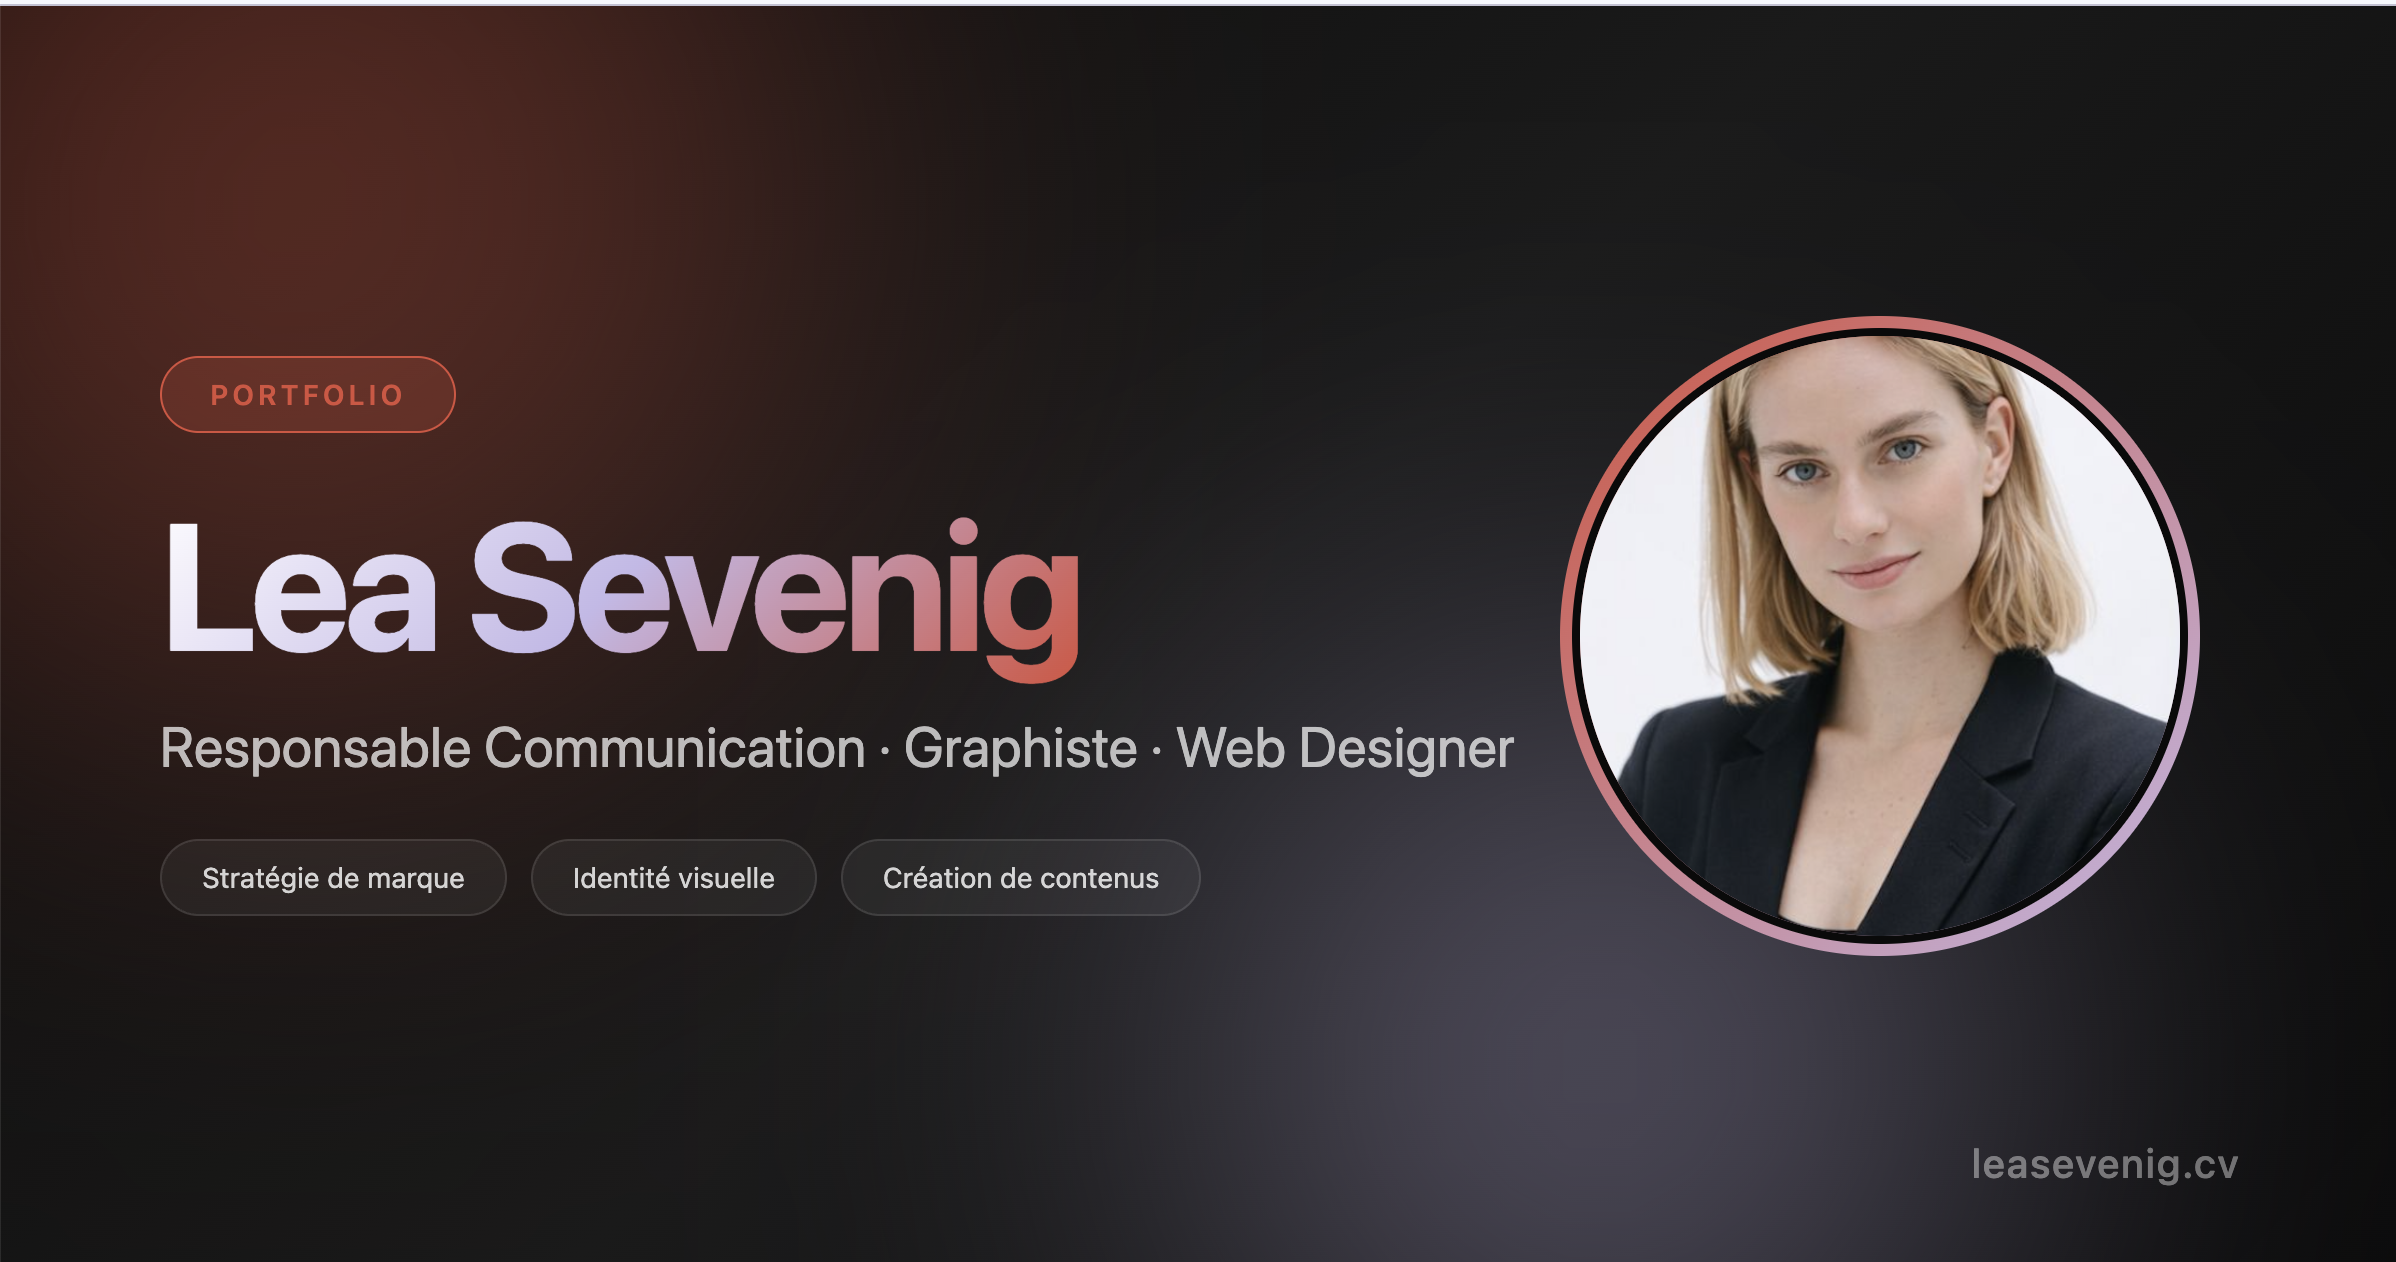
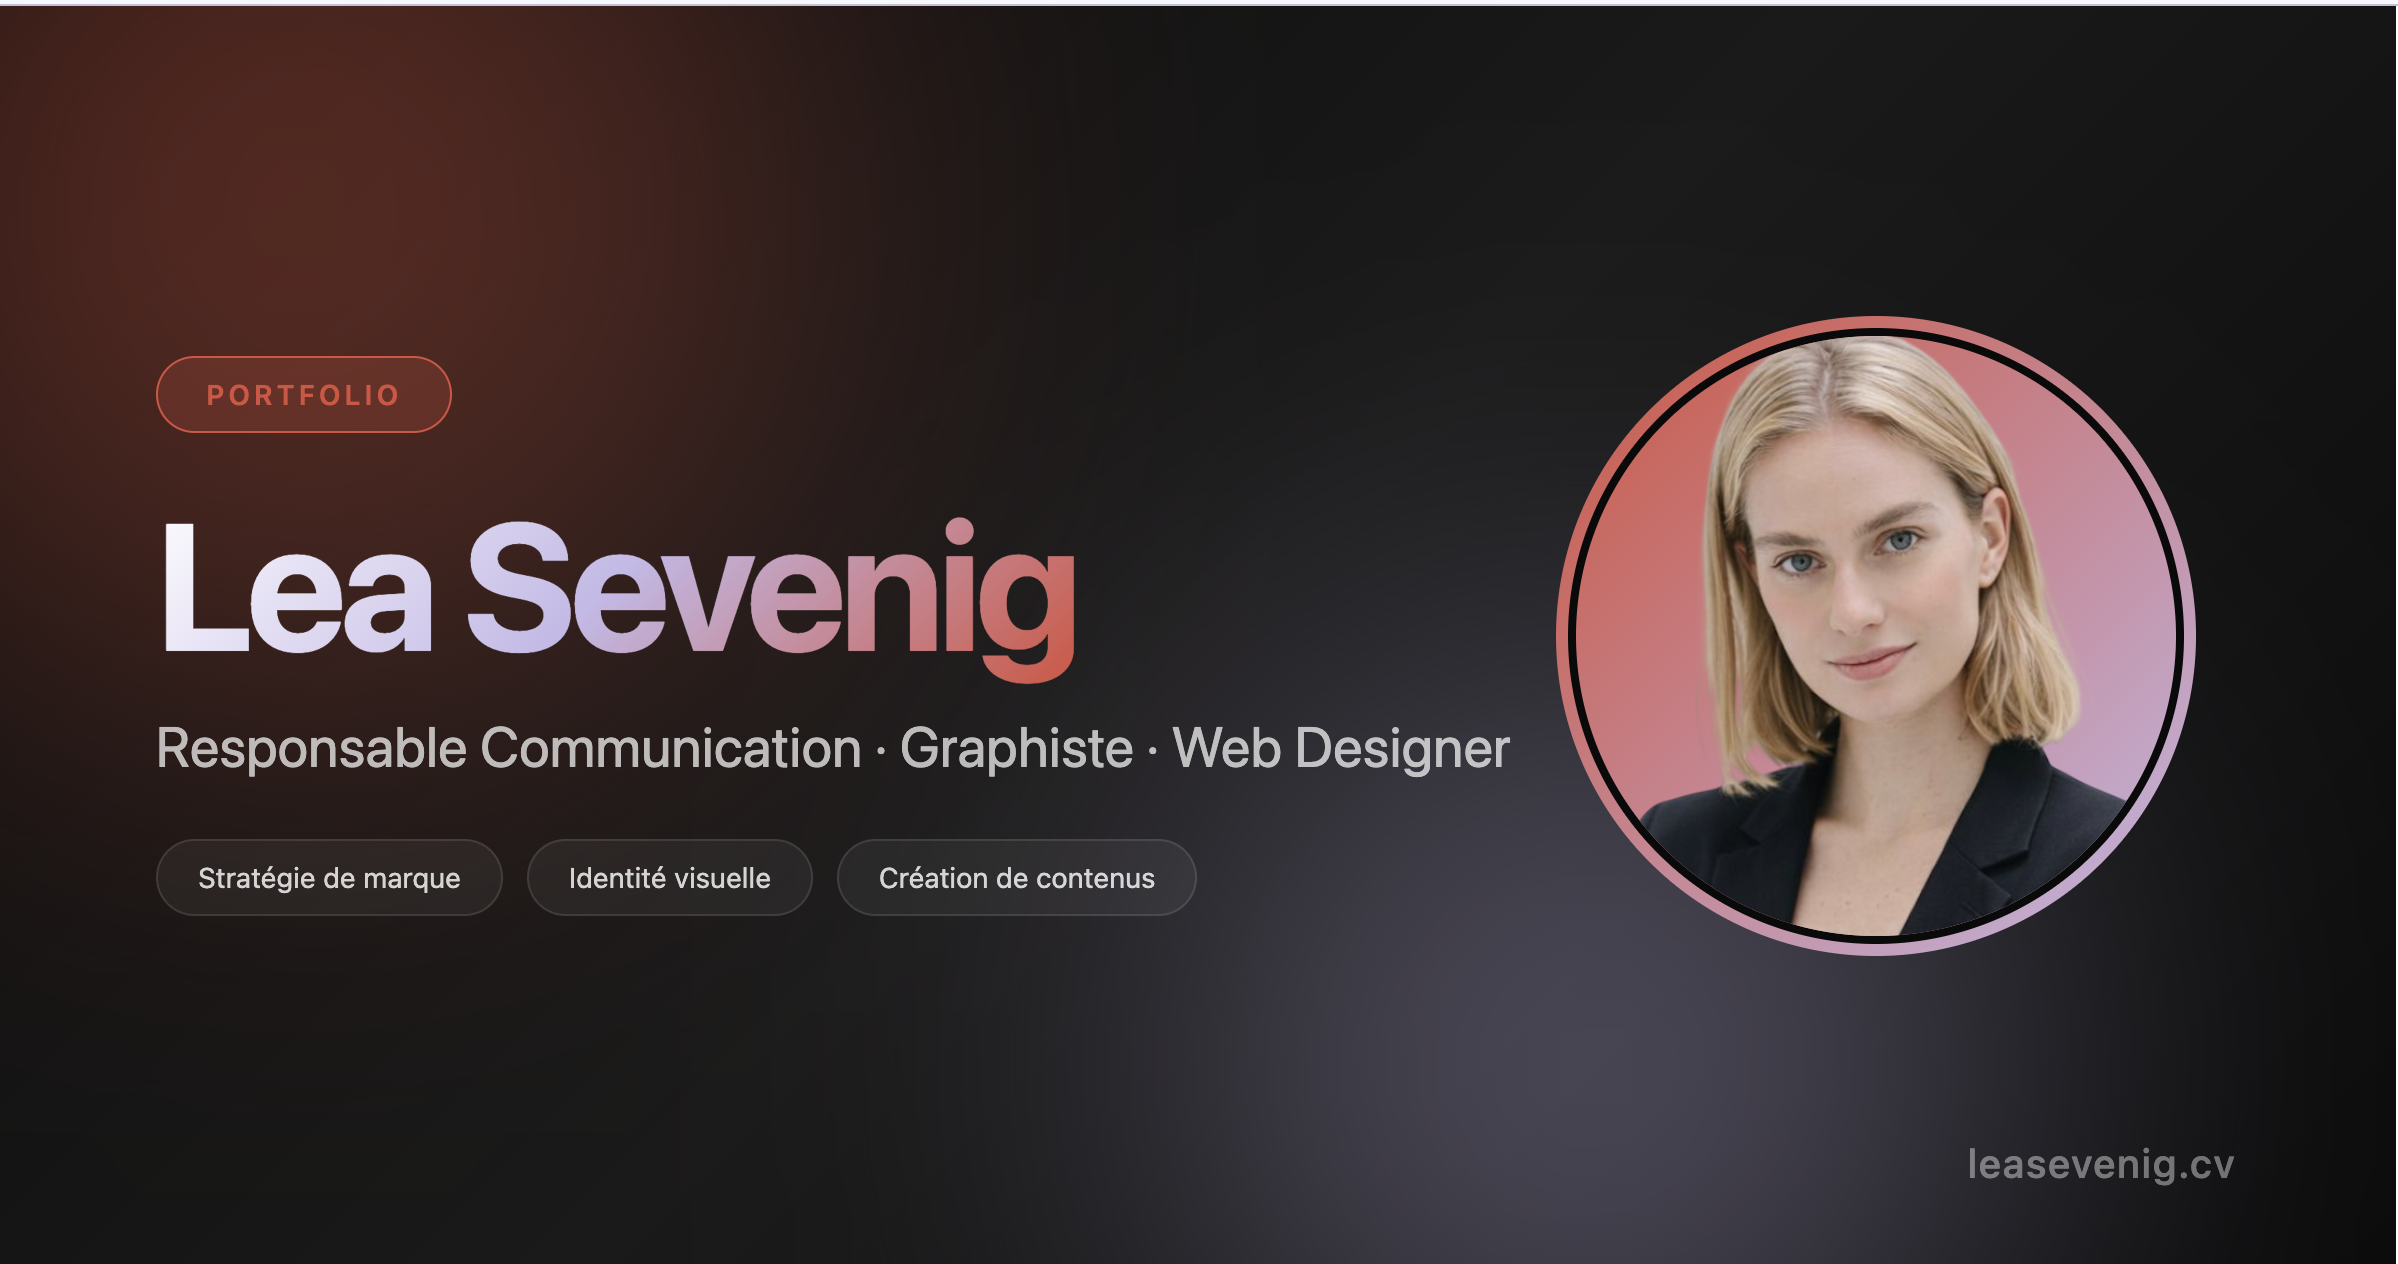
Fix photo position - head not cut off
- Update OG image with correct photo crop
- Fix CV photo position (center top)

diff --git a/cv.html b/cv.html
@@ -156,7 +156,7 @@
       height: 100%;
       border-radius: 50%;
       object-fit: cover;
-      object-position: center 40%;
+      object-position: center top;
       border: 3px solid var(--black);
     }
 

diff --git a/og-image.html b/og-image.html
@@ -123,7 +123,7 @@
       height: 100%;
       border-radius: 50%;
       object-fit: cover;
-      object-position: center 30%;
+      object-position: center top;
       border: 4px solid #0a0a0a;
     }
 
